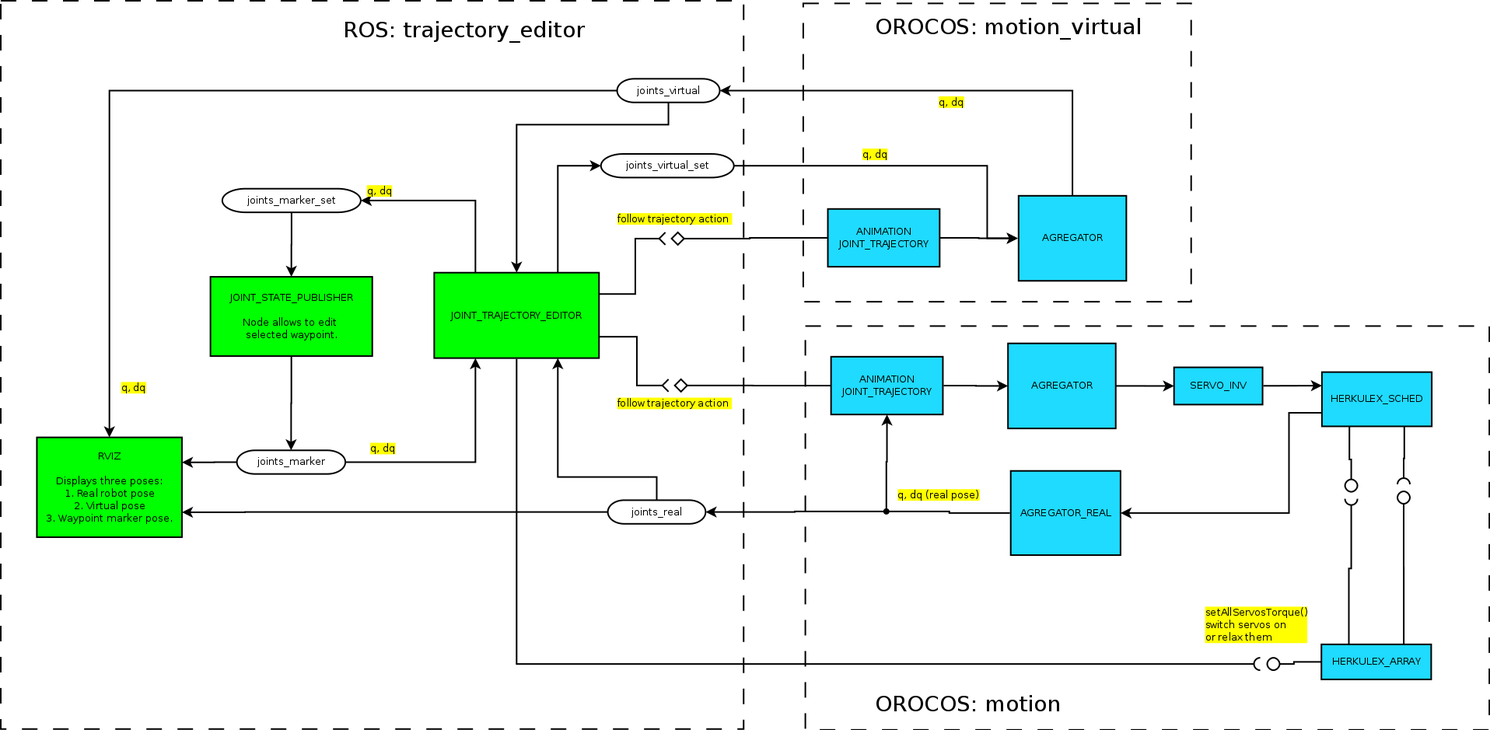
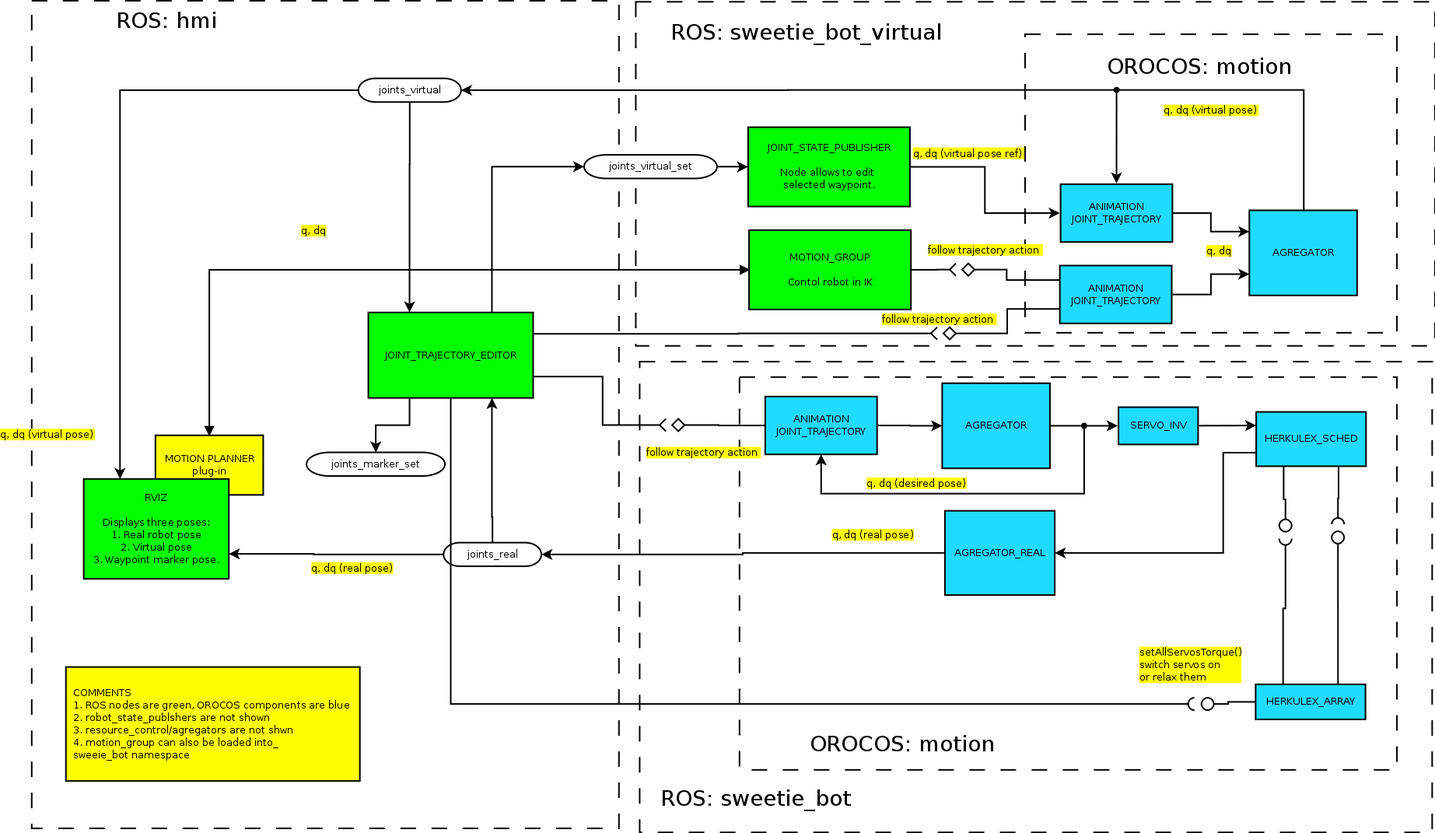
Add move_it support, simplify waypoint selection.

diff --git a/components-animation-stored-move.md b/components-animation-stored-move.md
@@ -48,22 +48,25 @@
 * Подсистема [MoveIt!](http://moveit.ros.org), она способна передавать команды в форме действий `control_msgs::FollowJointTrajectory`.
 * Компонент `joint_trajectory_editor`, выполняющий роль GUI для создания траекторий. Его центральный элемент --- список контрольных точек. 
    Он предоставляет пользователю следующие возможности:
-   * Редактирование: добавление в список точки (поза в `rviz`, реальная поза), назначение `time_from_start` для точек, редактирование заголовка `FollowJointTrajectory`.
+   * Редактирование: добавление в список точки (виртуального или реального робота), назначение `time_from_start` для точек, редактирование заголовка `FollowJointTrajectory`.
    * Сохранение траектории в файл.
-   * Команды: послать траекторию на исполнение, отключить/включить приводы, отключить/включит исполнение траектории приводами робота.
+   * Команды: послать траекторию на исполнение виртуальному или реальным роботом, отключить/включить приводы, отключить/включит исполнение траектории  робота.
      
 Ниже приведена структурная схема системы, используемой для интерактивного построения траекторий: 
 
 ![arch-joint-trajectory.png](arch-joint-trajectory.png)
 
-Она включает с себя 3 подсистемы:  реальный робот (`motion`), виртуальный робот (`motion_virtual`), средства редактирования траектории (`trajectory_editor`).
-`joint_trajectory_editor` занимает центральное место в схеме. Он может передавать траекторию на исполнение виртуальному или реальному роботу,
-устанавливать позу виртуального (`joints_virtual_set`), включать\выключать приводы реального робота (`setAllServosTorque`, `setRegisterRAM`), что позволяет менять позу вручную, добавлять в свой список контрольных точек новые с топиков `joints_marker` и `joints_real`.
+Она включает с себя 3 подсистемы:  реальный робот (`sweetie_bot`), виртуальный робот (`sweetie_bot_virtual`), средства отображения и редактирования траектории (`hmi`).
+Редактор траекторий `joint_trajectory_editor` занимает центральное место в схеме. Он может передавать траекторию на исполнение виртуальному или реальному роботу,
+устанавливать позу виртуального (`joints_virtual_set`), включать\выключать приводы реального робота (`setAllServosTorque`, `setRegisterRAM`), что позволяет менять позу вручную, 
+Редактор добавлять в свой список контрольных точек новые с топиков `joints_real`  и `joints_virtual`.
+(Названия топиков сокращены, реальные названия в соответствие с правилами именвания будут: `/sweetie_bot_vitrual/motion/agregator_ref/in_joints`, 
+`/sweetie_bot_vitrual/motion/agregator_ref/out_joints` и `/sweetie_bot/motion/agrgator_real/out_joints`).
 
 При использовании траекторий с информацией о дополнительных командах меняется тип действий `follow_trajectory_action`.
 
-Отдельный вопрос представляет задание позиции суставов, не управляемых редактируемой траекторией. Для реального робота это придется делать 
-вручную, отключив приводы. Для виртуального надо предусмотреть проброску неиспользуемых в траектории сочленений в `joints_virtual_set`.
+В виртуальную подсистему включена `moveit_group` и `joint_state_publisher`. Через соответсвующие задатчики (`FollowJointState` и `AnimationJointTrajectory`) 
+они могут управлять положением виртуального робота. Используя их интерфейсы пользователь может помещать виртуального робота в позы, по которым осоздаются контрольные точки.
 
 Хранение траекторий предлагается осуществлять за счет встроенных средств [cериализации ROS](http://wiki.ros.org/roscpp/Overview/MessagesSerializationAndAdaptingTypes). 
 Альтернативой могут выступать средства сериализации OROCOS ([`boost::serialization`](http://www.boost.org/doc/libs/1_63_0/libs/serialization/doc/tutorial.html)).
@@ -129,7 +132,9 @@
     int32 SUCCESSFUL = 0
     int32 UNKNOWN_COMMAND = -1
 
-*Замечание*: наилучший способ представления `Feedback` и `Result` не ясен из-за разнородности возможных команд.
+**Замечание**: наилучший способ представления `Feedback` и `Result` не ясен из-за разнородности возможных команд. 
+
+**TODO**: добавить совместимость с `FollowJointTrajectoryResult` по структуре полей.
 
 #### Траектория в угловой СК с текстовыми действиями
 
@@ -280,22 +285,23 @@
 
 1. `joints_real` (`JointState`) --- реальная поза робота по датчикам.
 1. `joints_virtual` (`JointState`) --- поза виртуального робота.
-1. `joints_marker` (`JointState`) --- поза, задаваемая пользователем.
 
 ### Публикует топики
 
 1. `joints_virtual_set` (`JointState`) --- команда мгновенного изменения позы виртуального робота.
-1. `joints_marker_set` (`JointState`) --- команда мгновенного изменения позы, отображаемой интерфейсом пользователя.
+1. `joints_marker_set` (`JointState`) --- выбор строки в списке крнтрольных точек.
 
 ### Сервисы
 
 1. Требует: `deployer_eval` (`string -> bool`) --- заставляет Deployer OROCOS исполнить заданный скрипт через сервис `rosdeployer`.
- Это относительно спорный способ доступа к операциям `HerkulexArray`. В будущем нужен компонент-прокси, т.к. ноды ROS не могут напрямую вызывать операции OROCOS.
+    Это относительно спорный способ доступа к операциям `HerkulexArray`. В будущем нужен компонент-прокси, т.к. ноды ROS не могут напрямую вызывать операции OROCOS.
+    Рассматривать как временное решение до реализации задатчика включения/выключения приводов.
+  
 
 ### Действия 
 
-1. Требует: `follow_trajectory_virtual` (`FollowJointTrajectory`) --- передать траекторию виртуальному роботу.
-1. Требует: `follow_trajectory` (`FollowJointTrajectory`) --- передать траекторию реальному роботу.
+1. Требует: `follow_trajectory_virtual` (`FollowJointTrajectoryAction`) --- передать траекторию виртуальному роботу.
+1. Требует: `follow_trajectory` (`FollowJointTrajectoryAction`) --- передать траекторию реальному роботу.
 
 ### Параметры
 
@@ -307,58 +313,76 @@
 Он реагирует на действия пользователя, осуществляя различные действия.
 
 Компонент обрабатывает только подмножество сочленений, имеющих отношение к редактируемой траектории. 
-Это множество задается в диалоге `Trajectory setup...`. 
+Это множество задается в диалоге (или вкладке) `Trajectory setup...`. 
 Если не оговорено другого, то из сообщений должны извлекаться и обрабатываться только они.
 
 Основные элементы окна:
 
-1. **Диалог "Trajectory setup..."** --- доступ к изменению базовых параметров траектории `FollowJointTrajectoryGoal`. 
+1. **Диалог (вкладка) "Trajectory setup..."** --- доступ к изменению базовых параметров траектории `FollowJointTrajectoryGoal`. 
     Текстовые поля для `name` (имя файла), `goal_tolerance`.
     Наиболее гибкое представление для `joints_names`, `path_tolerance`, `goal_tolerance` --- таблица. 
     Желательно предусмотреть возможность назначения лимита для всех звеньев сразу. В перспективе можно сделать "выключение" звеньев, 
     когда они остаются в таблице, но траектория им не посылается, отображения текущей позы.
 
-    Алтернативный вариант --- через текстовые поля, ввод через пробел.
+    Алтернативный упрощенный вариант --- через текстовые поля, ввод через пробел.
 
     В списке не может быть неизвестных звеньев.
 
-2. **Список/таблица контрольных точек**: удаление точки, редактирование времени, редактирования списка значений углов (не особо надо), 
+2. **Список/таблица контрольных точек**: удаление точки, редактирование времени, отображение и редактирования списка значений углов (не особо надо), 
     пометка начальной и конечной точки, флаг "выключения" строки (становится серой, не участвует в формировании траектории).
 
     При выделении пункта посылается сообщение `joints_marker_set`. 
 
-    Должны быть обеспечены средства контроля: список отсортирован по времени, маркер начала раньше конца и т.п. 
-    В перспективе можно добавить отметки "реальная/моделируемая поза" в пределах `path_tolerance`.
+    Должны быть обеспечены средства контроля целостности: список отсортирован по времени, маркер начала раньше конца и т.п. 
+    В перспективе можно добавить отметки, какой точке соответсвует реальная и моделируемая в пределах `path_tolerance`.
 
 
 3. **"Reverse direction"** --- меняет местами начальную точку и конечную (при наличии конпки "Execute real backward" не нужно).
 
-1. **"Speed scale"** (слайдер), **"Apply scale"** --- первый устанавливает модификатор масштаба времени при исполнении (не меняет таблицу), второй применяет модификатор к таблице.
+1. **"Speed scale"** (слайдер), кнопка **"Apply scale"** --- первый устанавливает модификатор масштаба времени при исполнении (не меняет таблицу), 
+    вторая применяет этот модификатор к таблице.
 
-4. **"Add pose from marker"** --- добавляет в список точек позу `joints_marker`.
+4. **"Add pose from vurtual"** --- добавляет в список точек позу `joints_marker`.
 
 5. **"Add pose from real"** --- добавляет в список точек позу `joints_real`.
 
-1. **"Set virtual pose"** --- устанавливает позу виртуального робота `joints_virtual_set` из `joints_marker`. Использует полную позу.
+1. **"Set virtual pose"** --- устанавливает позу виртуального робота через `joints_virtual_set` в соответсвие с выбранной строкой списка.
 
 1. **"Turn all servos on/off"** --- отключает/включает приводы робота.
 
 1. **"Turn all trajectory servos on/off"** --- отключает/включает приводы, входящие в траекторию.
 
-1. **"Execute virtual"** --- передает траекторию на исполнение задатчику виртуального робота. Результат по получению отображается рядом с кнопкой.
-Траектория формируется по текущему содержимому списка от "начальной точки" к "конечной". Это позволяет удобно отлаживать кусок траектории, 
-изменять направление.
+1. **"Execute virtual"** --- передает траекторию на исполнение задатчику виртуального робота. Результат действия `actionlib` отображается рядом с кнопкой.
+    Траектория формируется по текущему содержимому списка от "начальной точки" к "конечной". Это позволяет удобно отлаживать кусок траектории.
 
 1. **"Execute real"** --- передает траекторию на исполнение задатчику реального робота аналогично пункту выше. Результат по получению отображается рядом с кнопкой.
 
 1. **"Execute real backward"** --- то же, но траектория исполняется в обратном направлении. Удобно для возврата робота в исходную позу.
 
-1. **"Save trajectory...", "Load trajectory..."** --- загрузка и сохранение траектории. Всегда сохраняется полное содержимое таблицы, от начала до конца, масшатб скорости исполнеения игнорируется.
+1. **"Save trajectory...", "Load trajectory..."** --- загрузка и сохранение траектории. Всегда сохраняется полное содержимое таблицы, от начала до конца, 
+    масшатб скорости исполнеения игнорируется. Т.к. используются редко, то логично перенести в "Tarjectory Setup..." или меню.
 
 ### Детали реализации
 
-Для представления элементов списка следует использовать отдельный тип. Непосредственно `FollowJointTrajectoryGoal` формируется только по соответствующим командам.
+Для представления списка следует использовать отдельный класс.
+Непосредственно `FollowJointTrajectoryGoal` формируется по экземпляру этого класса по соответствующим командам. Он же занимается разбором `JointState`
 Следует сразу предусмотреть возможность хранения и отображения `TextCommand` и дальнейшей замены `FollowJointTrajectoryGoal` на `FollowJointTrajectoryWithActionsGoal`
+
+**Эскиз класса списка поз**: `WaypointsList`
+*Поля*:
+1. Список управляемых суставов.
+2. Значения о допусков.
+3. Список (`vector` или `list`) структур контрольных точек, хранящих углы, время, маркеры и признак активности точки.
+Методы:
+1. Конструктор.
+2. Назначение допусков.
+3. Добавление точки (аргумент --- полный `JointState` из которого выбираются нужные, если отсутсвуют, то ошибка).
+4. Удаление точки.
+5. Операции с маркерами, отключение точек (нужно видеть весь список, чтобы контролировать целостность, напрмер, нельзя отключить контрольную точку, помеченную начальной).
+6. Применение масштаба времени.
+7. Создание `FollowJointTrajectoryGoal` c заданным масштабом (задавать только позиции).
+
+Спорен вопрос о метсте хранения допусков. Но без них не получится создавать `FollowJointTrajectoryGoal` одной операцией.
 
 Для работы с действиями использовать `SimpleActionClient`, по одному на каждый задатчик.
 
